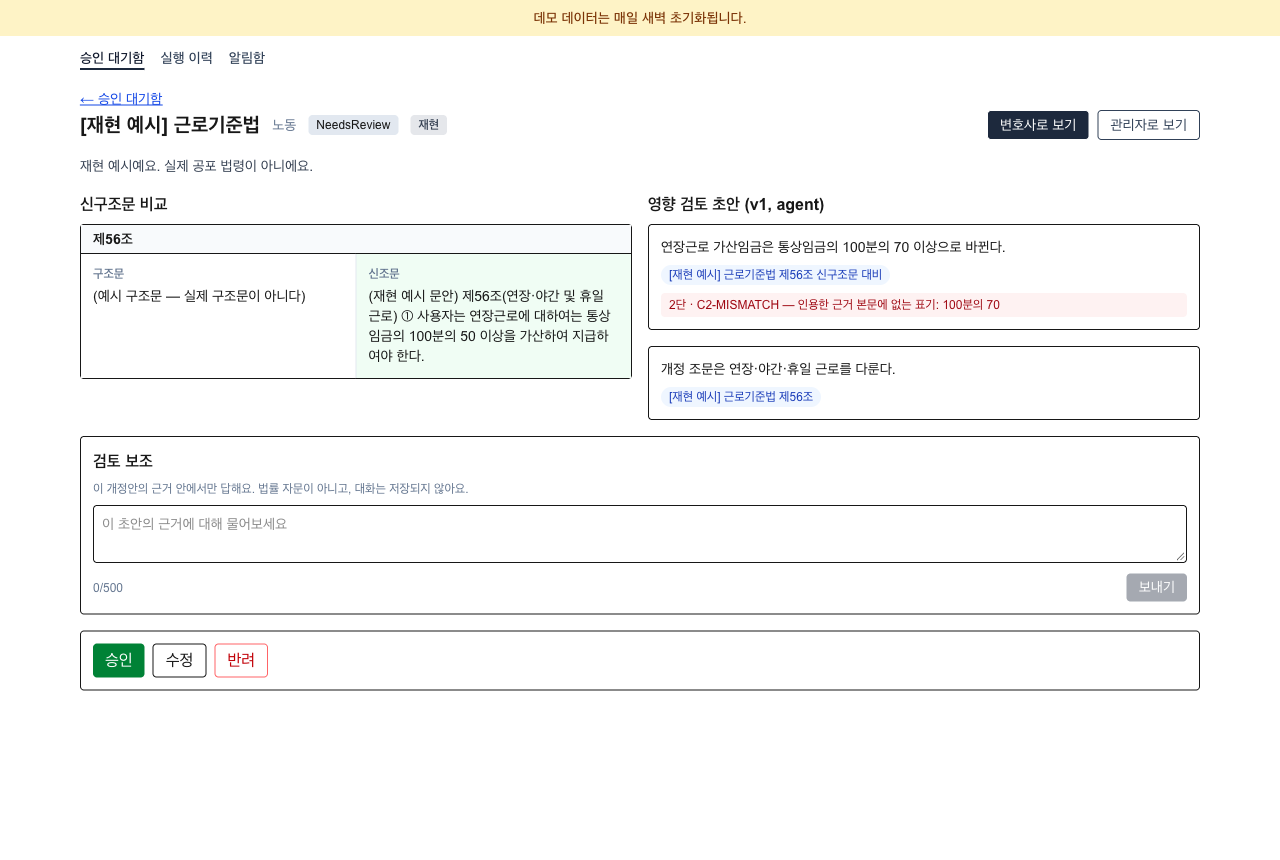
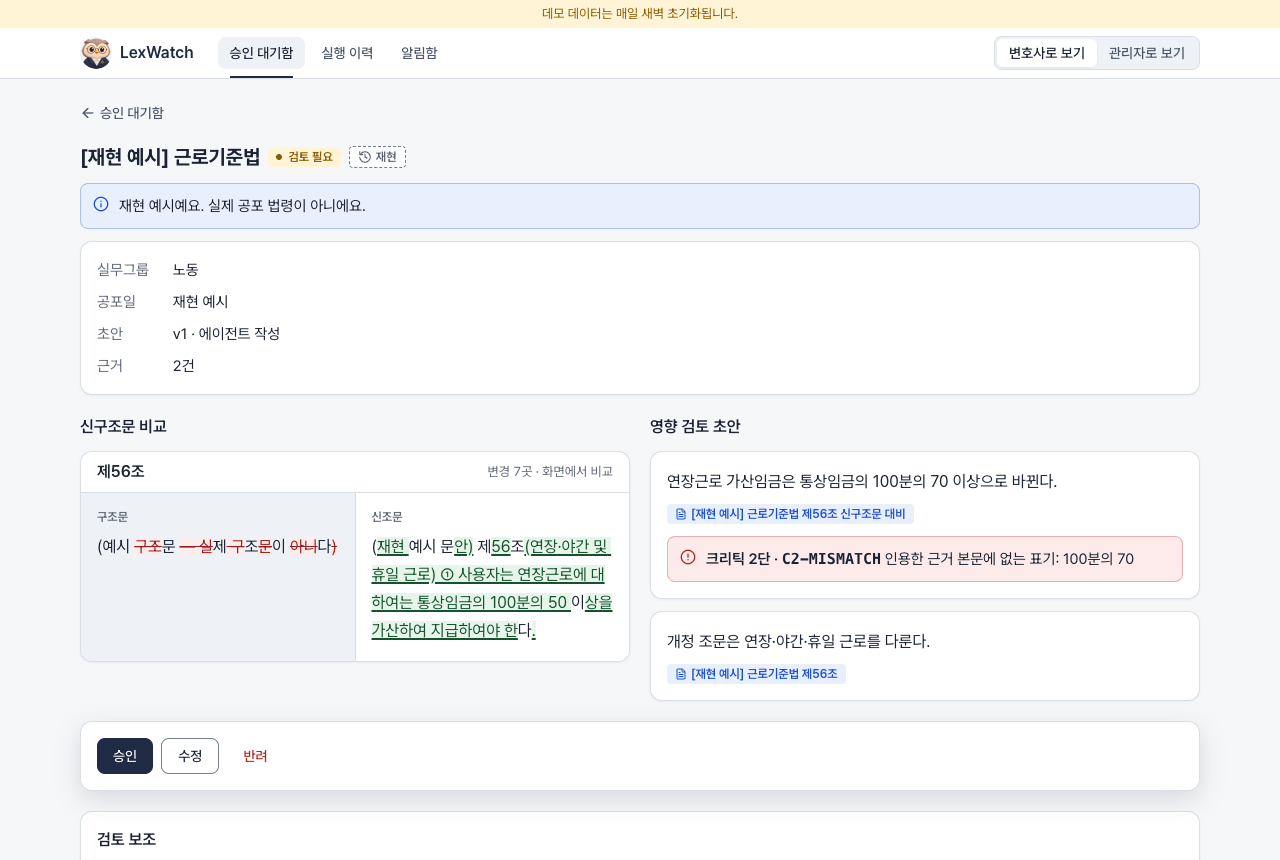
docs: README 화면 캡처와 테스트 건수, 출처 라벨 색 설명을 디자인 시스템에 맞춘다
- 화면 캡처 네 장을 새 디자인으로 다시 찍는다(로컬 compose, 키 없음, 1280x860).
- 테스트 건수: AI 77건, 화면 85건, .NET 141건.
- 출처 라벨 색을 초록/주황/회색에서 보라/남회색/점선 테두리로 바꾼 사실을
  README, nvidia-integration.md, on-prem-nim.md에 반영한다.
- 현재 구현 표에 화면 행, 기술 구성에 Base UI와 Pretendard, 출처에 마스코트와
  참고한 디자인 시스템을 더한다.

diff --git a/README.md b/README.md
@@ -68,6 +68,7 @@
 | 검토 | 승인·수정 후 승인·반려, 승인자와 수정 전후 기록, 근거 안에서만 답하는 검토 보조 채팅 |
 | 알림 | 승인된 그룹의 데모 알림함 발송, 실패 시 관리자 알림과 알림만 다시 실행 |
 | 운영 | 매일 07:00 수집, 04:00 데모 초기화(GitHub Actions), 채팅 할당량, 공유 토큰으로 AI 서비스 보호 |
+| 화면 | 로펌 직원용 디자인 시스템: 의미 토큰과 WCAG 2.2 AA 대비 검사, 한국어 상태 라벨, 법제처 공식 변경 표시를 쓴 신구조문 대조, 인용 근거 팝오버, 승인 확인 대화상자, 마스코트 "렉스". 규칙은 앱의 `/design-system` 화면과 [설계 문서](docs/features/design-system/design.md)에 있습니다 |
 
 <br>
 
@@ -75,7 +76,7 @@
 
 | 영역 | 기술 |
 | --- | --- |
-| Web | Next.js 16, React 19, TypeScript, Tailwind CSS 4 |
+| Web | Next.js 16, React 19, TypeScript, Tailwind CSS 4, Base UI, Pretendard |
 | API | .NET 10, ASP.NET Core Minimal API, EF Core 10, Npgsql, Serilog, OpenTelemetry |
 | AI | Python 3.12, FastAPI, Pydantic, httpx, uv |
 | Model | NVIDIA NIM: Nemotron 3.5 Super VL(채팅), Nemotron Embed(임베딩), Nemotron Rerank |
@@ -185,7 +186,7 @@
 - **녹화 테스트**: 재구성한 응답이나 가짜 전송 계층으로 우리 코드의 처리를 확인함. 실제 서버가 그렇게 답하는지는 확인하지 않았습니다.
 - **문서만**: 절차나 설정을 적기만 했음.
 
-화면 배지는 NVIDIA(초록), 대체 구현(주황), 재현(회색)으로 구분하며 대체 구현을 NVIDIA라고 표시하지 않습니다. 근거와 한계는 [docs/nvidia-integration.md](docs/nvidia-integration.md), 사내 배포 절차는 [docs/on-prem-nim.md](docs/on-prem-nim.md)(실행 검증하지 않음)에 있습니다.
+화면의 출처 라벨은 NVIDIA(보라), 대체 구현(남회색), 재현(점선 테두리)으로 구분하며 대체 구현을 NVIDIA라고 표시하지 않습니다. 출처는 품질 판정이 아니어서 성공과 실패를 뜻하는 초록과 빨강을 쓰지 않습니다. 근거와 한계는 [docs/nvidia-integration.md](docs/nvidia-integration.md), 사내 배포 절차는 [docs/on-prem-nim.md](docs/on-prem-nim.md)(실행 검증하지 않음)에 있습니다.
 
 <br>
 
@@ -215,10 +216,10 @@ docker compose up --build          # 데이터 볼륨까지 지우려면 docker 
 ### 테스트
 
 ```bash
-cd ai && uv run pytest                      # AI 서비스 74건
-cd web && pnpm test                         # 화면 27건
+cd ai && uv run pytest                      # AI 서비스 77건
+cd web && pnpm test                         # 화면 85건(토큰 대비, 라벨, 신구 대조 포함)
 export DOTNET_ROOT=$HOME/.dotnet PATH=$HOME/.dotnet:$PATH
-make test-backend                           # .NET 134건, Testcontainers라 Docker 필요
+make test-backend                           # .NET 141건, Testcontainers라 Docker 필요
 make eval-critic                            # 크리틱 평가, 결과를 eval/results에 저장
 ```
 
@@ -252,7 +253,8 @@ lexwatch/
 - ReRoute (NVIDIA Korea Agentic AI Hackathon 본선 진출 10팀 중 하나, 팀 저장소): NIM 어댑터의 재시도와 `Retry-After` 처리, 텍스트 도구 호출 파싱, 에이전트 가드레일 방식을 참고했습니다.
 - FlyGate (팀 저장소): 크리틱 3단 설계를 참고했습니다. 법률 도메인에 맞게 새로 구현했고 코드는 옮기지 않았습니다.
 - 법령 데이터는 국가법령정보센터 Open API를 쓰도록 구현했습니다.
-- README의 구조도 세 장(`docs/images/`)은 Codex CLI 내장 이미지 생성으로 만들었습니다.
+- README의 구조도 세 장(`docs/images/`)과 마스코트 "렉스"(`web/public/mascot/`)는 Codex CLI 내장 이미지 생성으로 만들었습니다. 마스코트 프롬프트는 [assets.md](docs/features/design-system/assets.md)에 있습니다.
+- 디자인 시스템은 IBM Carbon, GOV.UK, Atlassian, KRDS의 공개 지침을 참고했습니다([조사 기록](docs/features/design-system/research.md)).
 
 <br>
 

diff --git a/docs/nvidia-integration.md b/docs/nvidia-integration.md
@@ -29,10 +29,10 @@
 
 모든 단계와 응답은 공급자 종류(`nvidia`, `fallback`, `replay`, `none`)를 달고 다닌다.
 
-- NVIDIA(초록): NVIDIA 서비스가 실제로 돈 단계
-- 대체 구현(주황): 키가 없거나 장애로 결정적 대체 경로가 돈 단계. NVIDIA라고 부르지 않는다
-- 재현(회색): 녹화를 다시 재생한 단계. 법령 이름 앞에 `[재현 예시]`를 붙인다
+- NVIDIA(보라, 칩 아이콘): NVIDIA 서비스가 실제로 실행한 단계
+- 대체 구현(남회색, 렌치 아이콘): 키가 없거나 장애로 결정적 대체 경로가 돈 단계. NVIDIA라고 부르지 않는다
+- 재현(점선 테두리, 되감기 아이콘): 녹화를 다시 재생한 단계. 법령 이름 앞에 `[재현 예시]`를 붙인다
 
-키 없이 띄운 로컬 화면에는 NVIDIA 배지가 나오지 않는다. 초록 배지가 보이면 그 단계는 실제 호출이다.
+키 없이 띄운 로컬 화면에는 NVIDIA 라벨이 나오지 않는다. NVIDIA 라벨이 보이면 그 단계는 실제 호출이다. 출처 라벨은 품질 판정이 아니어서 상태 색(초록, 빨강, 주황)을 쓰지 않는다(2026-11-19, [디자인 시스템 설계](features/design-system/design.md) 2.1절).
 
 국가법령정보센터 연동을 재개하면 실제 조문을 녹화해 평가를 다시 실행한다. 현재 검증의 입력과 결과는 [스파이크 노트](notes/2026-11-16-spike.md)에 기록했다.

diff --git a/docs/on-prem-nim.md b/docs/on-prem-nim.md
@@ -26,7 +26,7 @@
 2. 서버에서 각 엔드포인트가 응답하는지 확인한다. `GET {NIM_BASE_URL}/models`로 모델 이름을 읽고 그 이름을 `NIM_MODEL`에 쓴다.
 3. AI 서비스의 환경변수에 위 표의 값을 넣고 재시작한다.
 4. AI 서비스에서 법인 내부망으로 나갈 수 있어야 한다. 현재 데모는 Vercel 서버리스에서 도는데 이것은 사내망에 닿지 않는다. 사내 배포에서는 `ai/Dockerfile`로 사내에서 컨테이너를 띄운다.
-5. `/classify`나 `/analyze`를 호출해 응답의 공급자 종류가 `nvidia`로 나오는지 본다. 화면의 배지는 초록이 된다. 단, 배지는 "NVIDIA 호환 서비스가 응답했다"는 뜻이지 호스팅인지 사내인지는 구분하지 않는다.
+5. `/classify`나 `/analyze`를 호출해 응답의 공급자 종류가 `nvidia`로 나오는지 본다. 화면에 보라색 NVIDIA 라벨이 붙는다. 단, 배지는 "NVIDIA 호환 서비스가 응답했다"는 뜻이지 호스팅인지 사내인지는 구분하지 않는다.
 6. 한국어 법률 문장 품질과 지연을 `make eval-critic`과 `scripts/try_nemotron_ko.py`로 다시 측정한다. 사내에 올린 모델이 호스팅 모델과 같은 품질이라는 보장은 없다.
 
 ## NeMo Guardrails를 사내에서 켜려면
